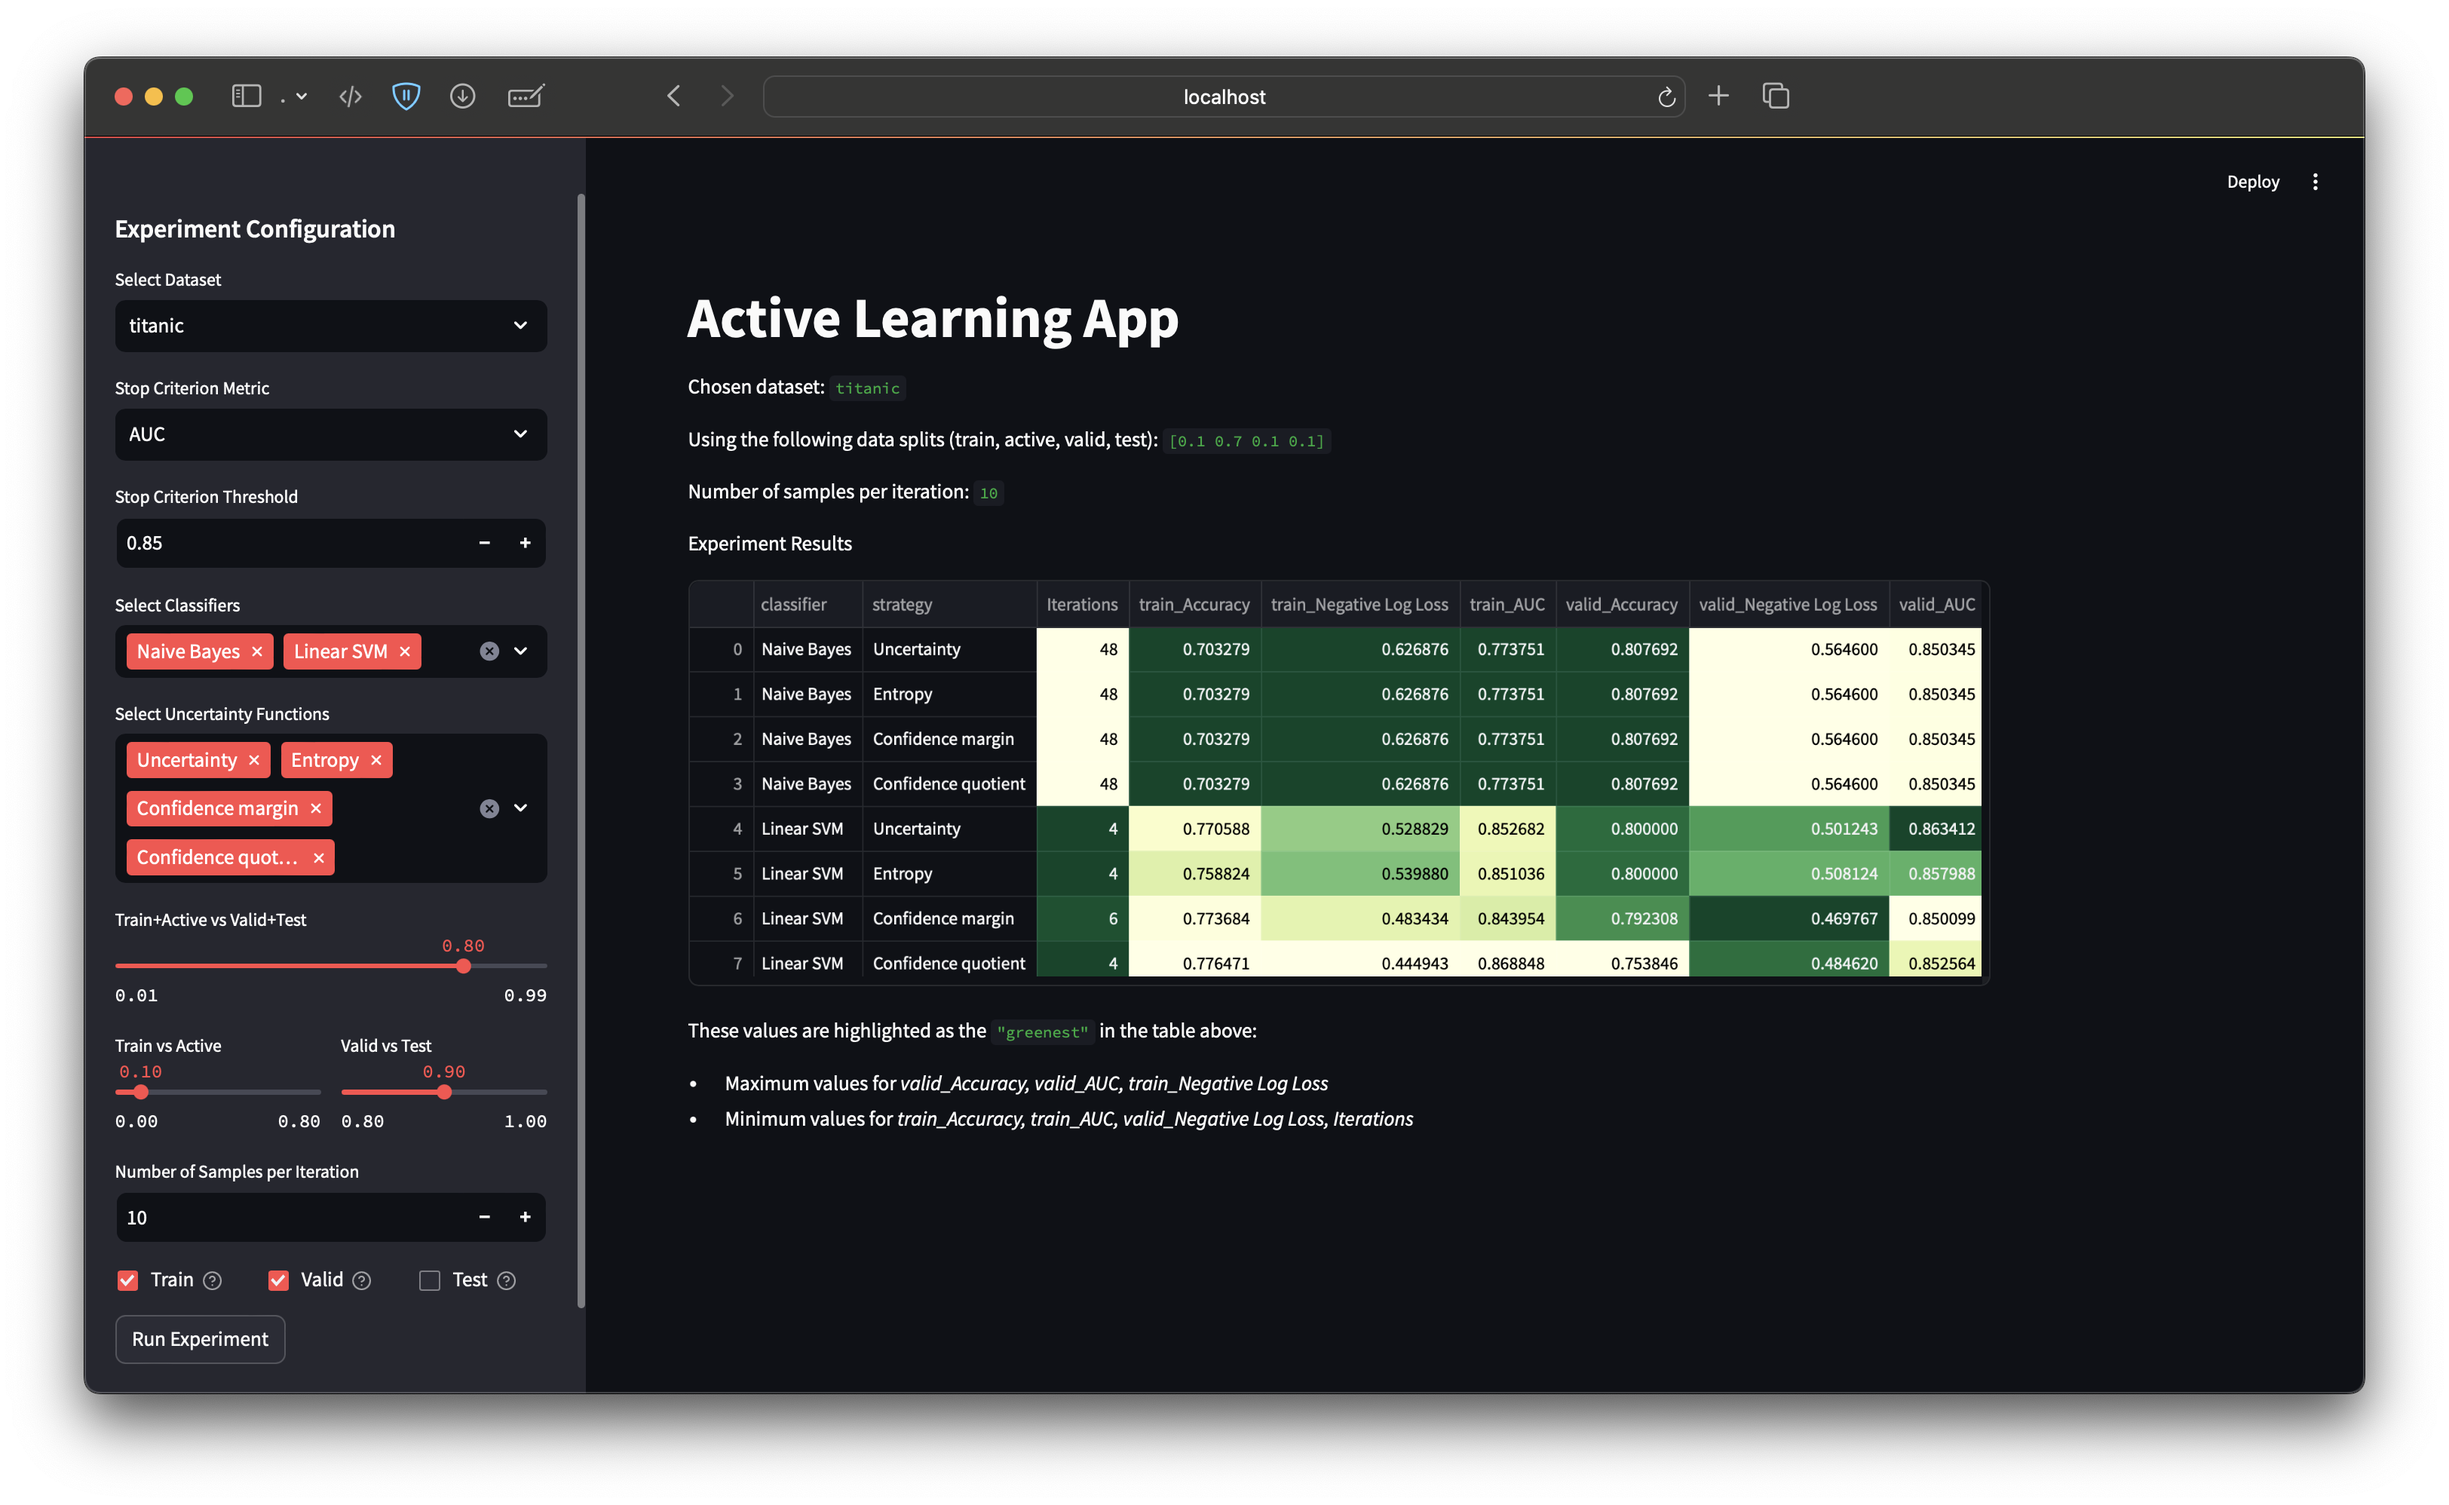
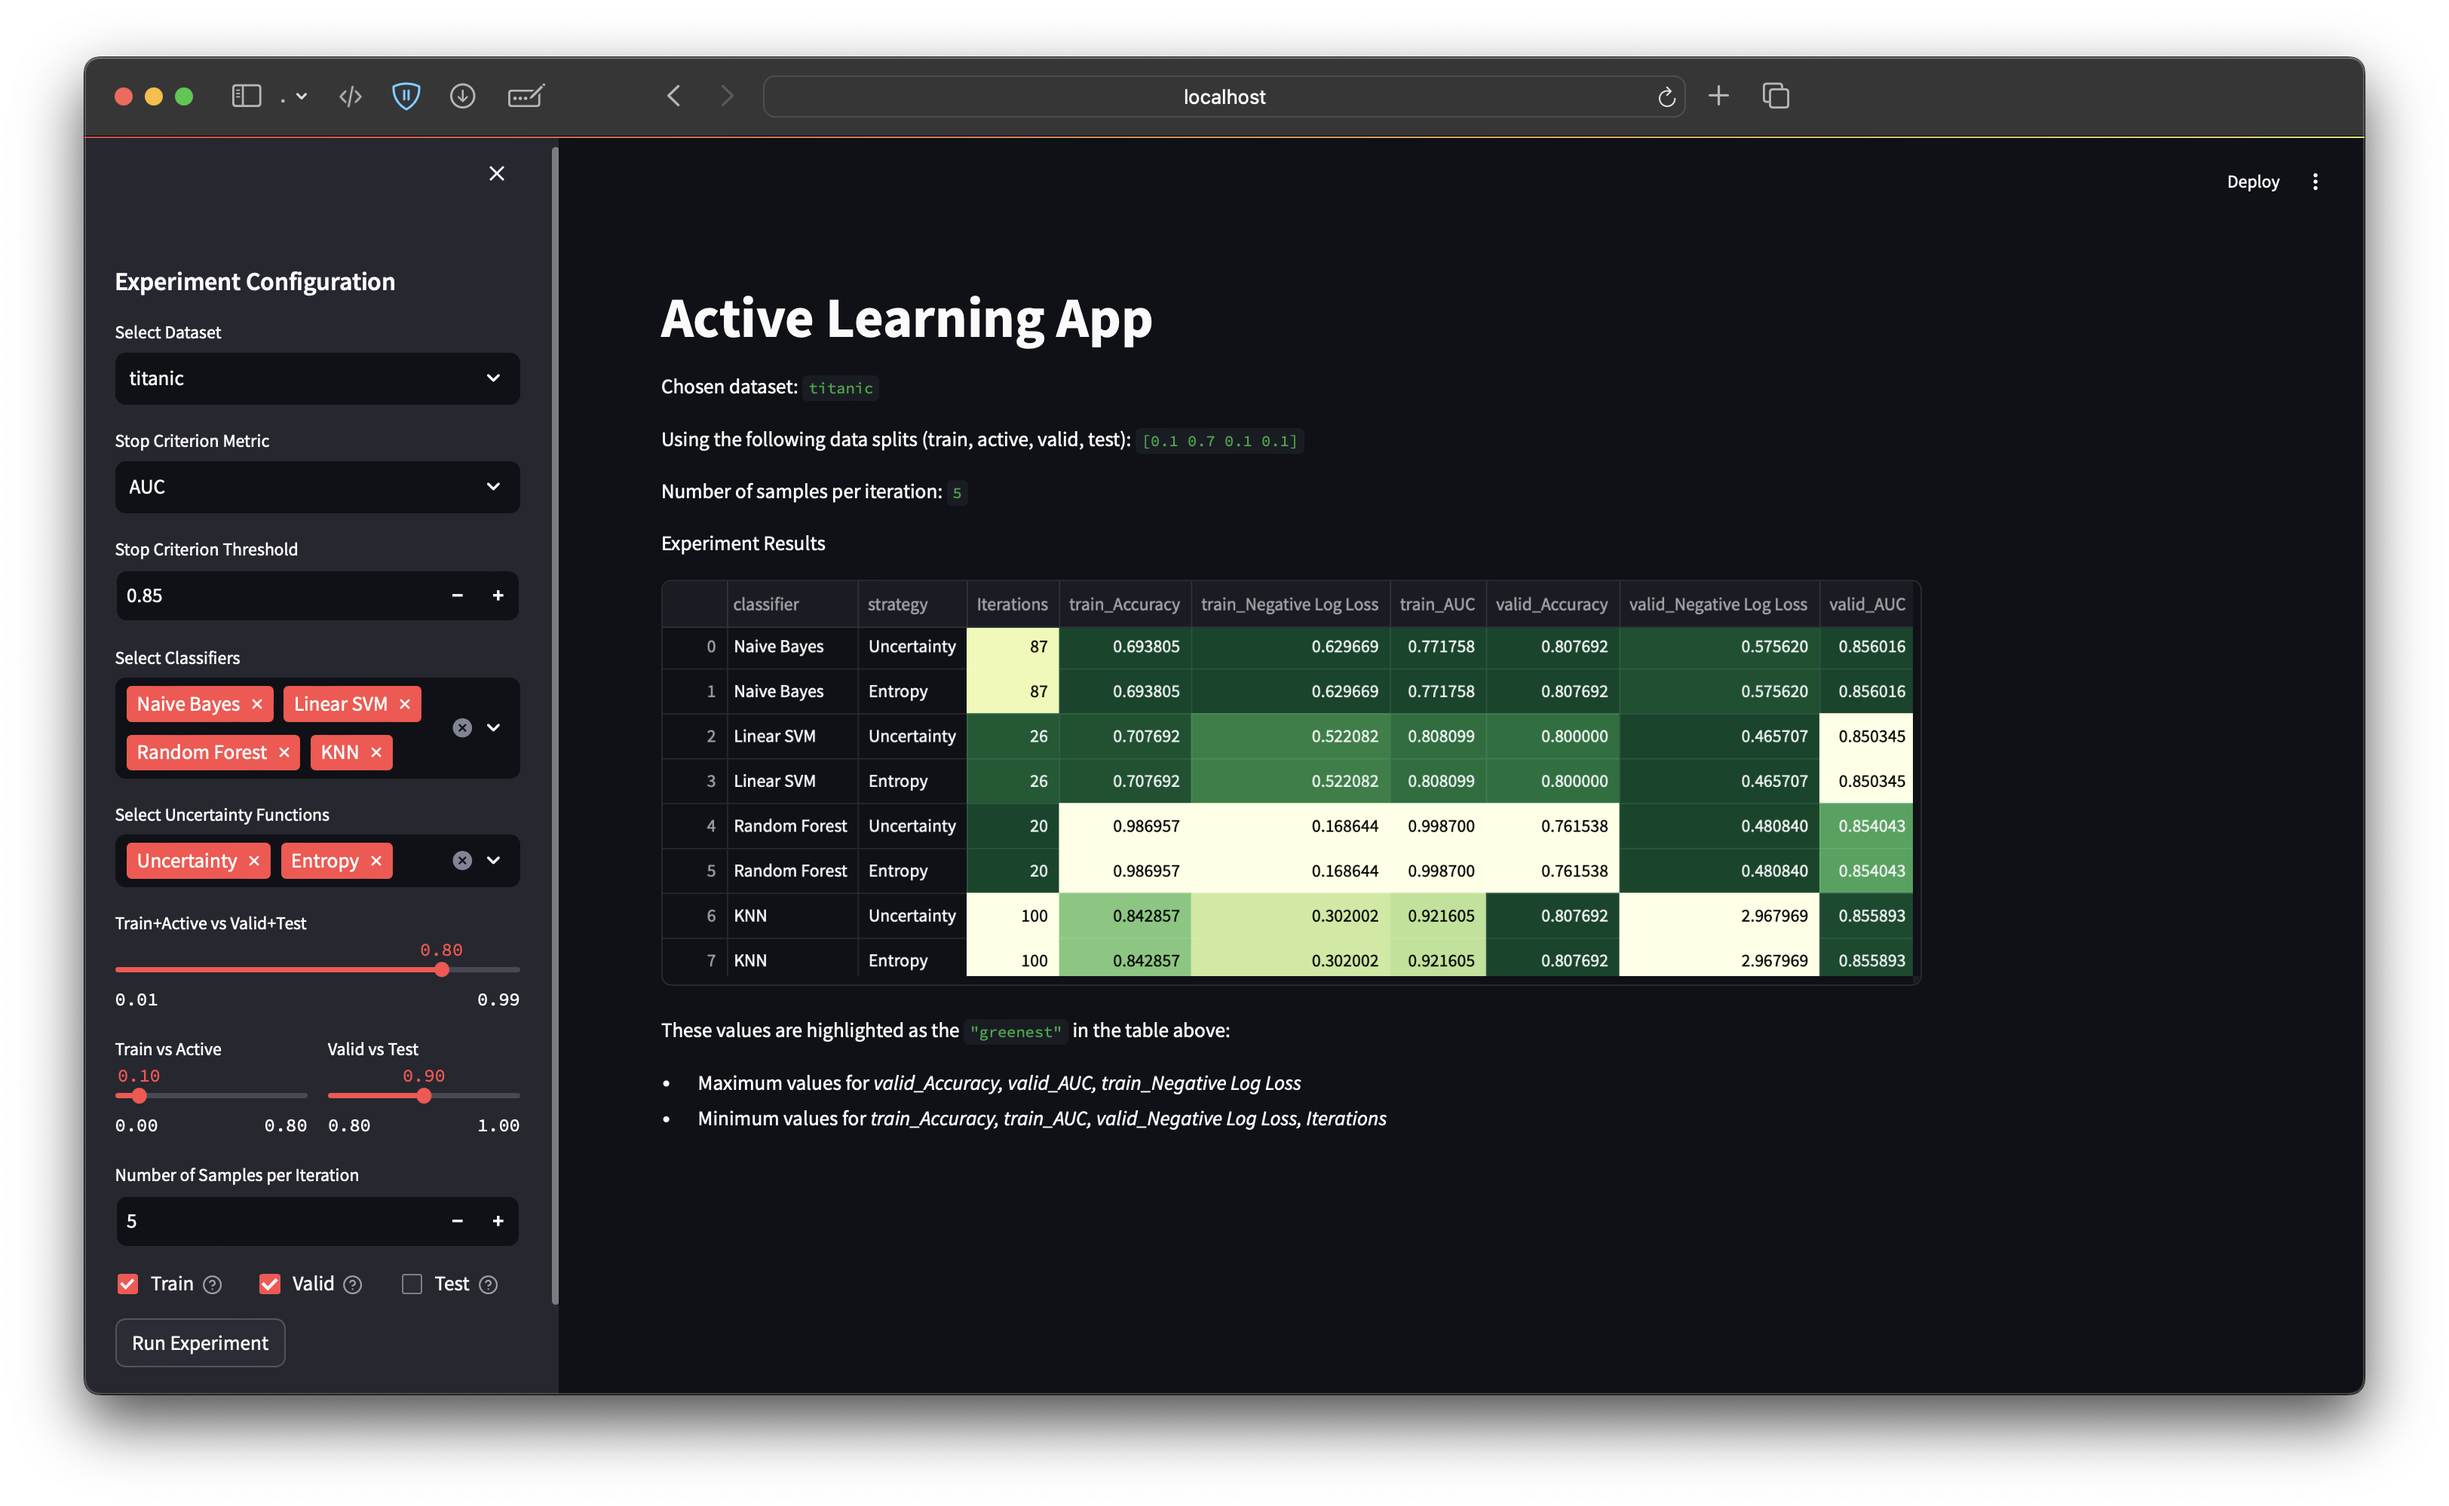
added demo video and updated app screenshots

Changed region(s): [[0.0311, 0.0932, 0.8085, 0.9319], [0.2799, 0.6834, 0.5597, 0.7455], [0.0622, 0.7766, 0.1555, 0.8076]]

diff --git a/zum_etap2.md b/zum_etap2.md
@@ -146,12 +146,14 @@ Interfejs graficzny pozwala na wygodne skonfigurowanie poniższych parametrów e
 - wybór zbioru danych (na przykładzie wybrany został zbiór `Titanic`)
 - wybór kryterium stopu (na przykładzie: `AUC`)
 - ustalenie progu kryterium stopu na zbiorze walidacyjnym, po którym moduł przestaje wykonywać kolejne iteracje trenowania (na przykładzie: `0.85`)
-- wybór modeli do przetestowania (na przykładzie wybrany został `Naive Bayes` oraz `Linear SVM`)
-- wybór funkcji niepewności do przetestowania (na przykładzie wybrane zostały wszystkie strategie, czyli: `Uncertainty`, `Entropy`, `Confidence margin` oraz `Confidence quotient`)
+- wybór modeli do przetestowania (na przykładzie wybrany został `Naive Bayes`, `Linear SVM`, `Random Forest` oraz `KNN`)
+- wybór funkcji niepewności do przetestowania (na przykładzie wybrane strategie `Uncertainty` oraz `Entropy`)
 - pierwszy suwak umożliwia zdefiniowanie podziału na dwie części - pierwsza część będzie dalej przeznaczona na zbiór treningowy oraz zbiór do aktywanego uczenia, a druga część będzie dalej przeznaczona na zbiór walidacyjny oraz zbiór treningowy (w tym wypadku 80% danych przeznaczamy na `Train+Active`, a 20% danych przeznaczamy na `Valid+Test`)
 - następnie dwa suwaki umożliwiają dostosowanie proporcji zbiorów `Train+Active` oraz `Valid+Test` (w tym wypadku ostatecznie 10% przeznaczamy na zbiór `Train` i 70% na zbiór `Active`, a pozostałe 20% rozdzielamy po równo na zbiory `Valid` oraz `Test`)
-- ustawienie `Number of Samples per Iteration` pozwala nam zdefiniować liczbę przykładów dobieranych w kolejnych iteracjach aktywnego uczenia (w tym wypadku `10`)
+- ustawienie `Number of Samples per Iteration` pozwala nam zdefiniować liczbę przykładów dobieranych w kolejnych iteracjach aktywnego uczenia (w tym wypadku `5`)
 - ostatnia opcja umożliwia nam wybranie zbiorów danych dla których wyniki mają być widoczne w wynikowej tabeli (w tym wypadku chcemy móc porównać wyniki dla zbiorów `Train` oraz `Valid`, natomiast nie chcemy znać wyników uzyskiwanych przez modele na zbiorze testowym)
+
+Na powyższym przykładzie widzimy, że w tym przypadku obie strategie zadziałały tak samo dla każdego z modeli - osięgnięcie zadanego AUC na zbiorze walidacyjnym zajęło tyle samo iteracji dla każdej ze strategii. Porównanie miar niepewności znajduje się w dalszej części tego raportu.
 
 Dodatkowo wygenerowane wyniki można w prosty sposób pobrać jako plik w formacie `.csv`:
 ![app2.png](docs/assets/app2.png)
@@ -186,13 +188,6 @@ Margines ufności mierzy różnicę między prawdopodobieństwami dwóch najbard
 Iloraz ufności to stosunek prawdopodobieństwa najbardziej prawdopodobnej klasy do drugiej najbardziej prawdopodobnej klasy. Niższy iloraz wskazuje na większą niepewność. Próbki z najniższym ilorazem są wybierane do dalszego uczenia.
 - **Zastosowanie**: Przydatna, gdy chcemy uwzględnić względną pewność modelu między dwiema najbardziej prawdopodobnymi klasami. Jest bardziej czuła na przypadki, gdzie różnice w prawdopodobieństwach są znaczące, ale niekoniecznie bliskie.
 - **Przykład zastosowania**: W klasyfikacji medycznej, gdzie różnice w prawdopodobieństwach mogą być znaczące, np. diagnozowanie chorób na podstawie wyników badań.
-
-### Przykładowy eksperyment - badanie wpływu strategii zapytań
-Jako przykładowy eksperyment przeanalizujemy prezentowany wcześniej przykład.
-
-![app1.py](/docs/assets/app1.png)
-
-
 
 ## Struktura projektu
 Projekt składa się z biblioteki backendowej o źródłach w [./src](./src/inter_active_learning/) oraz [interfejsu graficznego](./active_learning_app.py) do przykładowych interakcji z nią. Pozostałe pliki za wyłączeniem raportów o przedrostku "zum\_" są skonfigurowanym szablonem biblioteki na podstawie projektu [cookiecutter](https://github.com/ionelmc/cookiecutter-pylibrary).

diff --git a/README.md b/README.md
@@ -1,7 +1,8 @@
 # Active Learning app with interactive GUI
 ![app1](docs/assets/app1.png)
 
-[app_demo_video](docs/assets/app_demo_video.mp4)
+## Demo video
+[![app_demo_video](docs/assets/app_demo_video_thumbnail.png)](https://youtu.be/VhhASUaIqqk "Watch demo video")
 
 ## Installation
 ```bash
